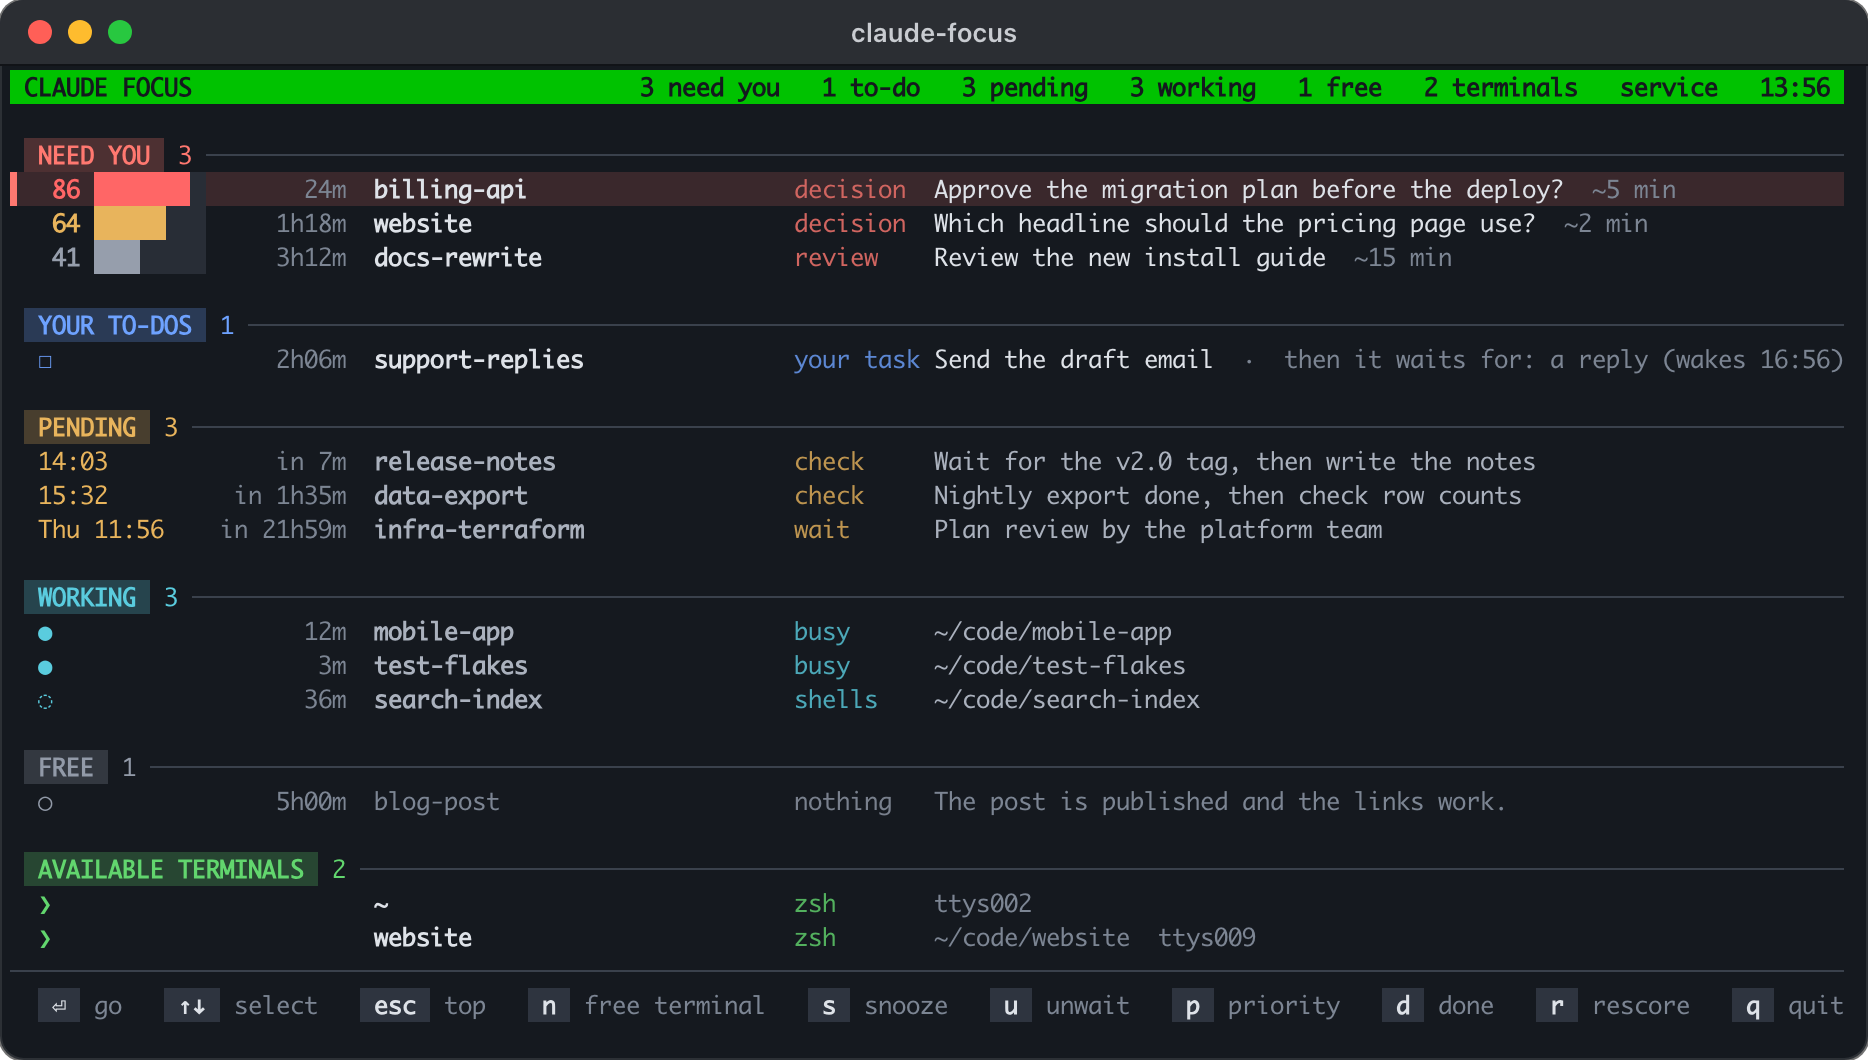
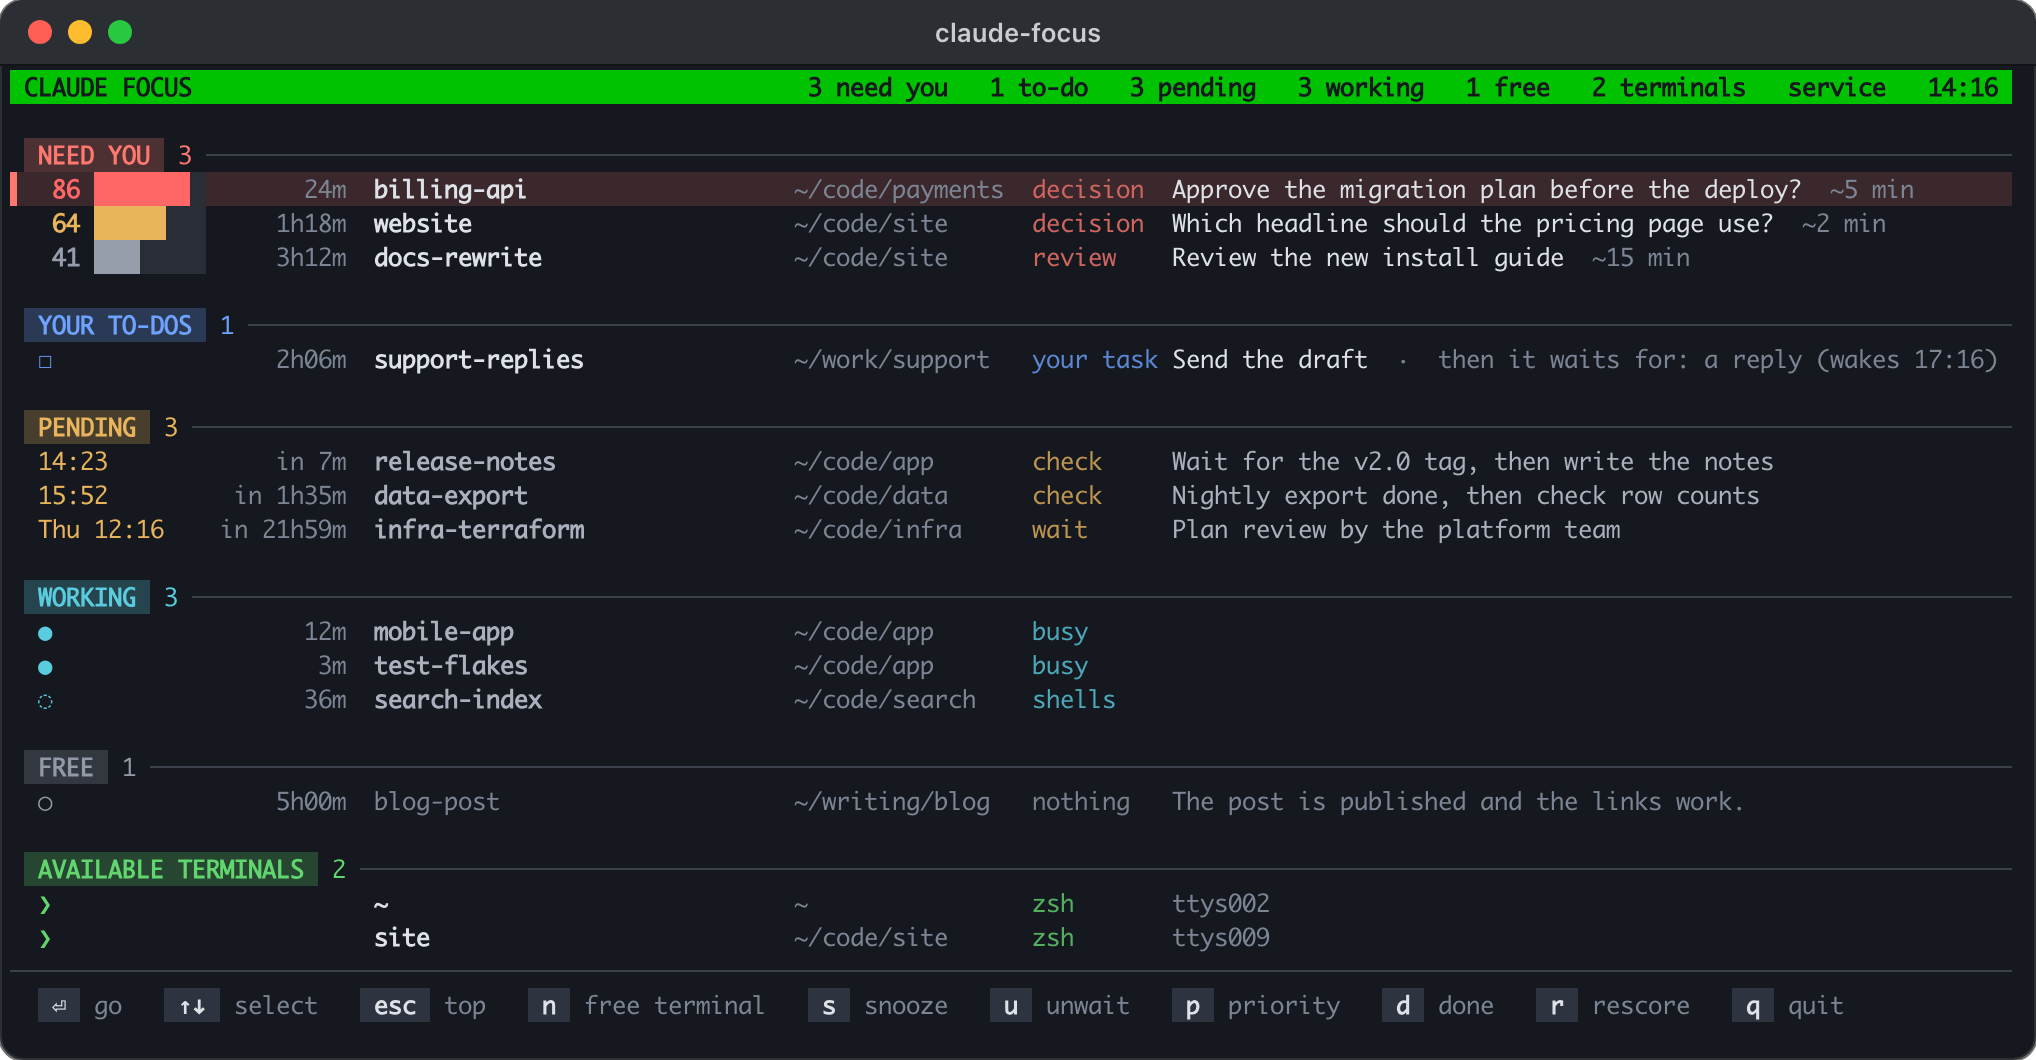
Focus screen: a folder column for every session
Each row shows the folder its session runs in, after the name: as wide
as the longest folder on the screen, at most 40 columns, and a longer
path keeps its end. WORKING and free terminals no longer repeat it in
their text. Windows under 110 columns keep the old layout.

diff --git a/claude_focus/app.py b/claude_focus/app.py
@@ -46,6 +46,7 @@ COUNT_LABEL = {"need": "need you", "todo": "to-do", "pending": "pending", "worki
                "free": "free", "terminals": "terminals"}
 HIGH, MID = 80, 60        # priorities shown in red and in amber
 PRIORITY_CELLS = 8        # the length of a priority bar at 100
+PATH_CELLS = 40           # the widest folder column; a longer path keeps its end
 
 
 def fmt_wait(h):
@@ -861,22 +862,35 @@ class App:
     # was not typed, a duplicate, no pane). The rest is grey.
 
     def _cols(self, w):
-        return {"lead": 13, "age": 9, "name": 28 if w >= 110 else 20, "kind": 9 if w >= 100 else 0}
+        # The folder column is as wide as the longest folder on the screen, and
+        # only on a wide screen; on a narrow one WORKING shows it as its text.
+        wide = w >= 110
+        paths = [self._path(sec, i) for sec, _ in SECTIONS for i in (self.view or {}).get(sec) or []] if wide else []
+        return {"lead": 13, "age": 9, "name": 28 if wide else 20,
+                "path": min(PATH_CELLS, max(map(len, paths), default=0)), "kind": 9 if w >= 100 else 0}
+
+    @staticmethod
+    def _path(sec, item):
+        """The folder of a row: the session's cwd, or a free terminal's path."""
+        if sec == "terminals":
+            return item["path"]
+        return short_path(item["s"]["cwd"]) if item["s"].get("cwd") else ""
 
     # How bright a row's name and text are: what needs the user stands out, what
     # waits or works is softer, and FREE is grey.
     TONE = {"need": ("text", "text"), "todo": ("text", "text"), "pending": ("soft", "soft"),
             "working": ("soft", "soft"), "free": ("dim", "dim"), "terminals": ("text", "dim")}
 
-    def _row_parts(self, sec, item):
-        """(lead, age, kind, tags, text) of one row; the lead, tags and text can carry color."""
+    def _row_parts(self, sec, item, path_col=False):
+        """(lead, age, kind, tags, text) of one row; the lead, tags and text can carry color.
+        path_col: the row has a folder column, so the text need not name the folder."""
         P, s, sc = self.pal, item["s"], item["fresh"] or {}
         acc, dim, alert = P[sec], fg(P["dim"]), fg(P["alert"])
         now_ms = time.time() * 1000
         since = fmt_wait(max(0, now_ms - s["statusSince"]) / 3.6e6) if "statusSince" in s else ""
         tags, text = [], ""
         if sec == "terminals":
-            where = "" if item["path"] == item["s"]["name"] else item["path"] + "  "
+            where = "" if path_col or item["path"] == item["s"]["name"] else item["path"] + "  "
             return f"{fg(acc)}❯{R}", "", item["job"], [], where + item["tty"]
         if sec == "need":
             eff = item["eff"]
@@ -907,7 +921,7 @@ class App:
             shells = s["status"] == "shell"
             lead, age = f"{fg(acc)}{'◌' if shells else '●'}{R}", since
             kind = "shells" if shells else "busy"
-            text = short_path(s.get("cwd"))
+            text = "" if path_col else short_path(s.get("cwd"))
         else:  # free
             done = item["e"].get("dismissed_stamp") == s["statusSince"]
             lead, age, kind = f"{fg(acc)}○{R}", since, "done" if done else "nothing"
@@ -923,13 +937,16 @@ class App:
 
     def row(self, sec, item, w, selected=False):
         P, cols = self.pal, self._cols(w)
-        lead, age, kind, tags, text = self._row_parts(sec, item)
+        lead, age, kind, tags, text = self._row_parts(sec, item, path_col=bool(cols["path"]))
         name_tone, text_tone = ("text", "text") if selected else self.TONE[sec]
         name = look.cut(item["s"].get("name") or "?", cols["name"])
         name = f"{fg(P[name_tone])}{B if name_tone != 'dim' else ''}{name}{R}"
         mark = f"{fg(P[sec])}▌{R} " if selected else "  "
         line = (mark + look.pad(lead, cols["lead"]) + look.pad(f"{fg(P['dim'])}{age}{R}", cols["age"], right=True)
                 + "  " + look.pad(name, cols["name"]) + "  ")
+        if cols["path"]:
+            path = look.cut_left(self._path(sec, item), cols["path"])
+            line += look.pad(f"{fg(P['dim'])}{path}{R}", cols["path"]) + "  "
         if cols["kind"]:
             line += look.pad(f"{fg(mix(P[sec], P['bg'], 0.8))}{look.cut(kind, cols['kind'])}{R}", cols["kind"]) + " "
         line += "".join(t + "  " for t in tags) + fg(P[text_tone]) + text + R

diff --git a/tests/test_render.py b/tests/test_render.py
@@ -150,6 +150,33 @@ class LayoutTest(unittest.TestCase):
         self.assertIn("hotel-website", row)
         self.assertIn("~/Projects/hotel-website", row)
 
+    def test_every_row_shows_its_folder_in_one_column(self):
+        a, b = need("api", "Deploy?"), pending("docs", "the tag")
+        a["s"]["cwd"] = os.path.expanduser("~/code/api")
+        b["s"]["cwd"] = "/srv/docs-site"
+        screen = self.screen([a, b], terminals=[terminal("t", "ttys002", "~/code/web")])
+        rows = [next(x for x in screen if f" {n} " in x[:60]) for n in ("api", "docs", "web")]
+        cols = [x.index(p) for x, p in zip(rows, ("~/code/api", "/srv/docs-site", "~/code/web"))]
+        self.assertEqual(len(set(cols)), 1)  # one column, after the name
+        self.assertLess(rows[0].index("api"), cols[0])
+        self.assertEqual(rows[2].count("~/code/web"), 1)  # not again in the text
+
+    def test_working_row_names_its_folder_once(self):
+        w = need("builder", "x")
+        w["s"].update(status="busy", cwd=os.path.expanduser("~/code/builder"))
+        self.app.view = {"working": [w]}
+        wide = ANSI.sub("", self.app.row("working", w, 200))
+        self.assertEqual(wide.count("~/code/builder"), 1)
+        narrow = ANSI.sub("", self.app.row("working", w, 90))  # no folder column: the text names it
+        self.assertEqual(narrow.count("~/code/builder"), 1)
+
+    def test_a_long_folder_keeps_its_end(self):
+        item = need("deep", "?")
+        item["s"]["cwd"] = "/very/long/" + "x" * 60 + "/the-project"
+        self.app.view = {"need": [item]}
+        line = ANSI.sub("", self.app.row("need", item, 300))
+        self.assertIn("…" + ("x" * 60 + "/the-project")[-(appmod.PATH_CELLS - 1):] + "  ", line)
+
     def test_nothing_needs_you(self):
         screen = self.screen([self.long], terminals=[terminal("a", "ttys002")])
         self.assertTrue(any("Nothing needs you now." in x for x in screen))

diff --git a/claude_focus/look.py b/claude_focus/look.py
@@ -58,6 +58,14 @@ def cut(text, n):
     return text if len(text) <= n else text[:n - 1] + "…"
 
 
+def cut_left(text, n):
+    """Plain text to at most n columns, with … where its start was cut: a
+    path keeps its end, the part that names the folder."""
+    if n <= 0:
+        return ""
+    return text if len(text) <= n else "…" + text[len(text) - n + 1:]
+
+
 def pad(s, n, right=False):
     """Pad a colored string to n visible columns (right=True: align right)."""
     gap = " " * max(0, n - width(s))

diff --git a/README.md b/README.md
@@ -120,9 +120,12 @@ The sections, top to bottom:
 Every section uses one grid, so each column is always in the same place: a
 lead (in NEED YOU the priority as a number and a bar whose length is the
 priority; in PENDING the wake time), an age (how long it has waited for you,
-worked or slept; in PENDING the time until it wakes), the name, a kind
-(decision, action, check, wait, snoozed, busy, shells, ...) and the text.
-Narrow windows drop the kind column.
+worked or slept; in PENDING the time until it wakes), the name, the folder
+the session runs in, a kind (decision, action, check, wait, snoozed, busy,
+shells, ...) and the text. The folder column is as wide as the longest
+folder on the screen, at most 40 columns; a longer folder keeps its end.
+Windows narrower than 110 columns drop the folder column (WORKING then shows
+the folder as its text), and below 100 columns also the kind column.
 
 Each section has its own color. A priority of 80 or more is red, of 60 or
 more amber, and the rest grey. Alerts are red: a wake-up that could not be
